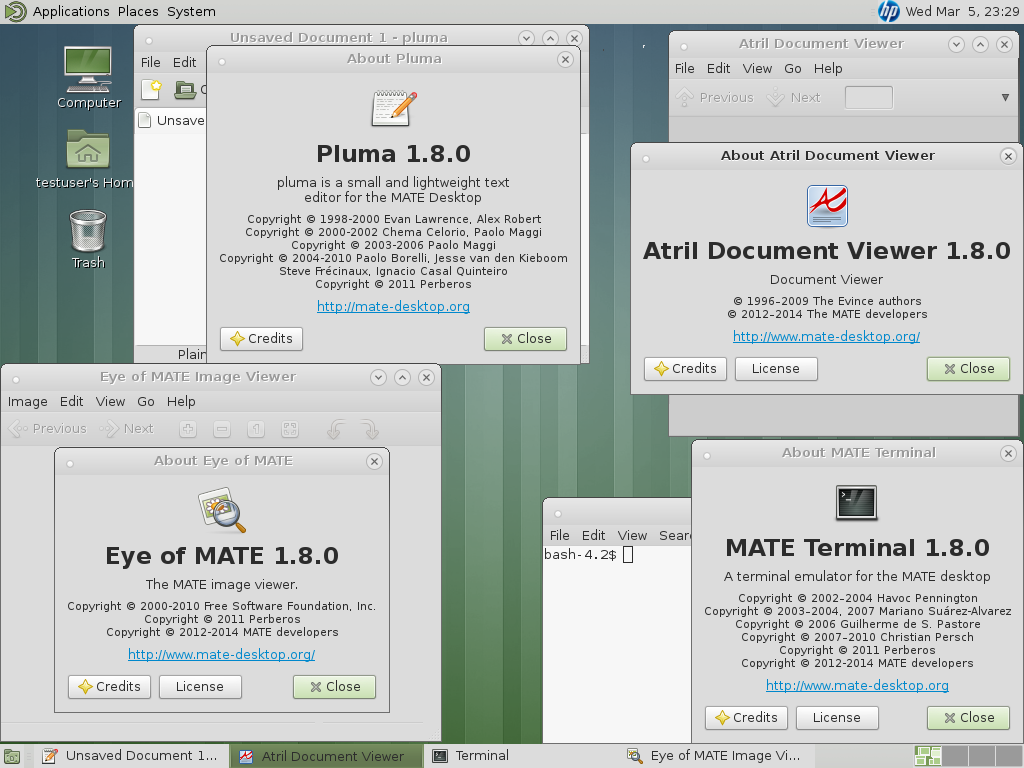
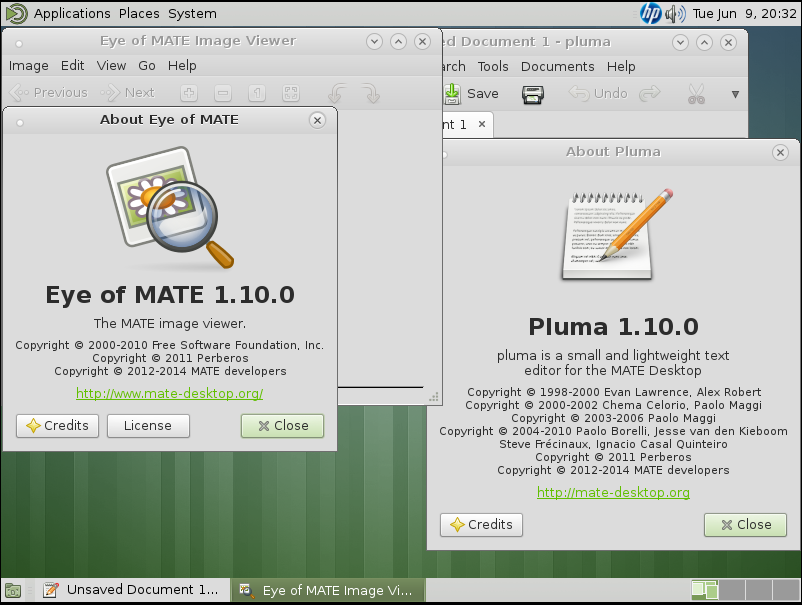
Update for 1.10.

diff --git a/index.html b/index.html
@@ -33,7 +33,7 @@ type='text/css'>
            <p>The scripts are hosted in a <a
              href="http://github.com/mateslackbuilds/msb">Git repo</a> so feel
            free to test and offer suggestions, improvements, patches, etc.
-           Here are some obligatory screenshots of MATE 1.8 with its default
+           Here are some obligatory screenshots of MATE 1.10 with its default
            theme and background running on Slackware64-14.1:</p>
            <div id="screenshots">
              <a href="images/mate1.png"><img class="image"
@@ -73,8 +73,8 @@ type='text/css'>
            $HOME/.cache, $HOME/.config, and $HOME/.local) usually solves these
            issues.</li>
            <li>Q: How long does it take to build the packages?</li>
-           <li>A: All the /base and /extra packages should build in 30-40
-           minutes on any reasonably modern machine.</li>
+           <li>A: All the /deps, /base and /extra packages should not take too much time to build
+           on any reasonably modern machine.</li>
            <li>Q: Who is behind MATE SlackBuilds?</li>
            <li>A: Willy Sudiarto Raharjo and Chess Griffin.  Please post
            bug reports at the Github repo or send us an email at
